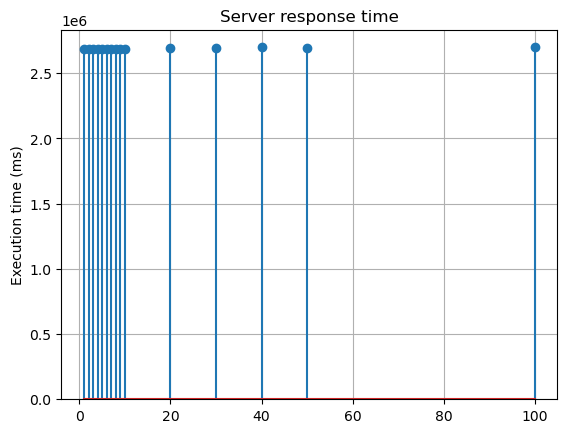
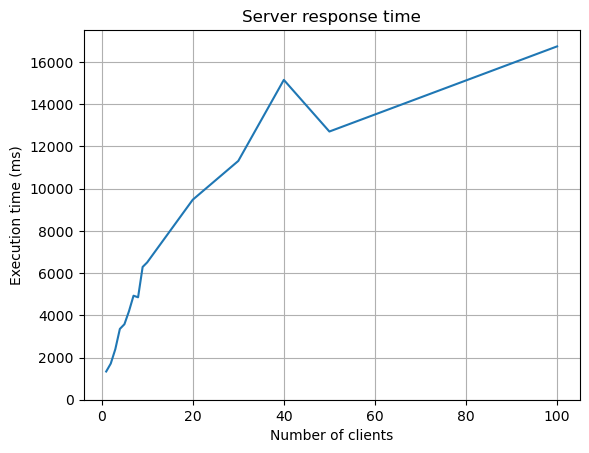
Graph 4

diff --git a/plot.py b/plot.py
@@ -8,7 +8,7 @@ titles = ["Server response time"]
 x_axis = 'Number of clients'
 X_axis2 = 'Password length'
 y_axis = 'Execution time (ms)'
-names = ["server", "server-client-delay", "password"]
+names = ["server", "server-client-delay", "password", "password_opti"]
 
 
 def get_data(dictionary, file):
@@ -40,15 +40,21 @@ get_data(d4, files[3])
 
 
 x = list(d1.keys())
-print(d1.values())
-for x in d1.values():
-    print(x)
-y = [sum(tim) / len(tim) for (fs, tim, pl) in [c for c in d1.values()]]
-plt.stem(x, y, label='Clients sending requests at the same time')
+y = []
+for key in d1.keys():
+    length = 0
+    sum = 0
+    for measure in d1.get(key):
+        (fs, tim, pl) = measure
+        sum += tim
+        length += 1
+    y.append(sum/length)
+plt.plot(x, y, label='Clients sending requests at the same time')
 
 
 plt.title(titles[0])
 plt.ylabel(y_axis)
+plt.xlabel(x_axis)
 plt.ylim(bottom=0)
 plt.grid()
 # plt.legend(loc='best', ncol=2, fontsize='xx-small', labelspacing=0)
@@ -56,29 +62,55 @@ plt.savefig(names[0] + '.png', bbox_inches='tight')
 plt.show()
 
 x = list(d2.keys())
-y = [sum(tim) / len(tim) for (fs, tim, pl) in d2.values()]
-plt.stem(x, y, label='Clients requests delayed')
+y = []
+for key in d2.keys():
+    length = 0
+    sum = 0
+    for measure in d2.get(key):
+        (fs, tim, pl) = measure
+        sum += tim
+        length += 1
+    y.append(sum/length)
+plt.plot(x, y, label='Clients requests delayed')
 
 
 plt.title(titles[0])
 plt.ylabel(y_axis)
+plt.xlabel(x_axis)
 plt.ylim(bottom=0)
 plt.grid()
 # plt.legend(loc='best', ncol=2, fontsize='xx-small', labelspacing=0)
 plt.savefig(names[1] + '.png', bbox_inches='tight')
 plt.show()
 
-y = [pl for (fs, tim, pl) in d3.values()]
-y = [sum(tim) / len(tim) for (fs, tim, pl) in d3.values()]
-plt.plot(x, y, label='Basic server')
-y = [pl for (fs, tim, pl) in d4.values()]
-y = [sum(tim) / len(tim) for (fs, tim, pl) in d4.values()]
-plt.plot(x, y, label='Optimized server')
-
+x = []
+y = []
+for measure in d4.get(1):
+    (fs, tim, pl) = measure
+    x.append(pl)
+    y.append(tim)
+plt.plot(x, y, label='Basic server', color='cyan')
 plt.title(titles[0])
 plt.ylabel(y_axis)
+plt.xlabel('Password length')
 plt.ylim(bottom=0)
 plt.grid()
 # plt.legend(loc='best', ncol=2, fontsize='xx-small', labelspacing=0)
 plt.savefig(names[2] + '.png', bbox_inches='tight')
+plt.show()
+x = []
+y = []
+for measure in d4.get(1):
+    (fs, tim, pl) = measure
+    x.append(pl)
+    y.append(tim)
+plt.plot(x, y, label='Optimized server', color='magenta')
+
+plt.title(titles[0])
+plt.ylabel(y_axis)
+plt.xlabel('Password length')
+plt.ylim(bottom=0)
+plt.grid()
+# plt.legend(loc='best', ncol=2, fontsize='xx-small', labelspacing=0)
+plt.savefig(names[3] + '.png', bbox_inches='tight')
 plt.show()
